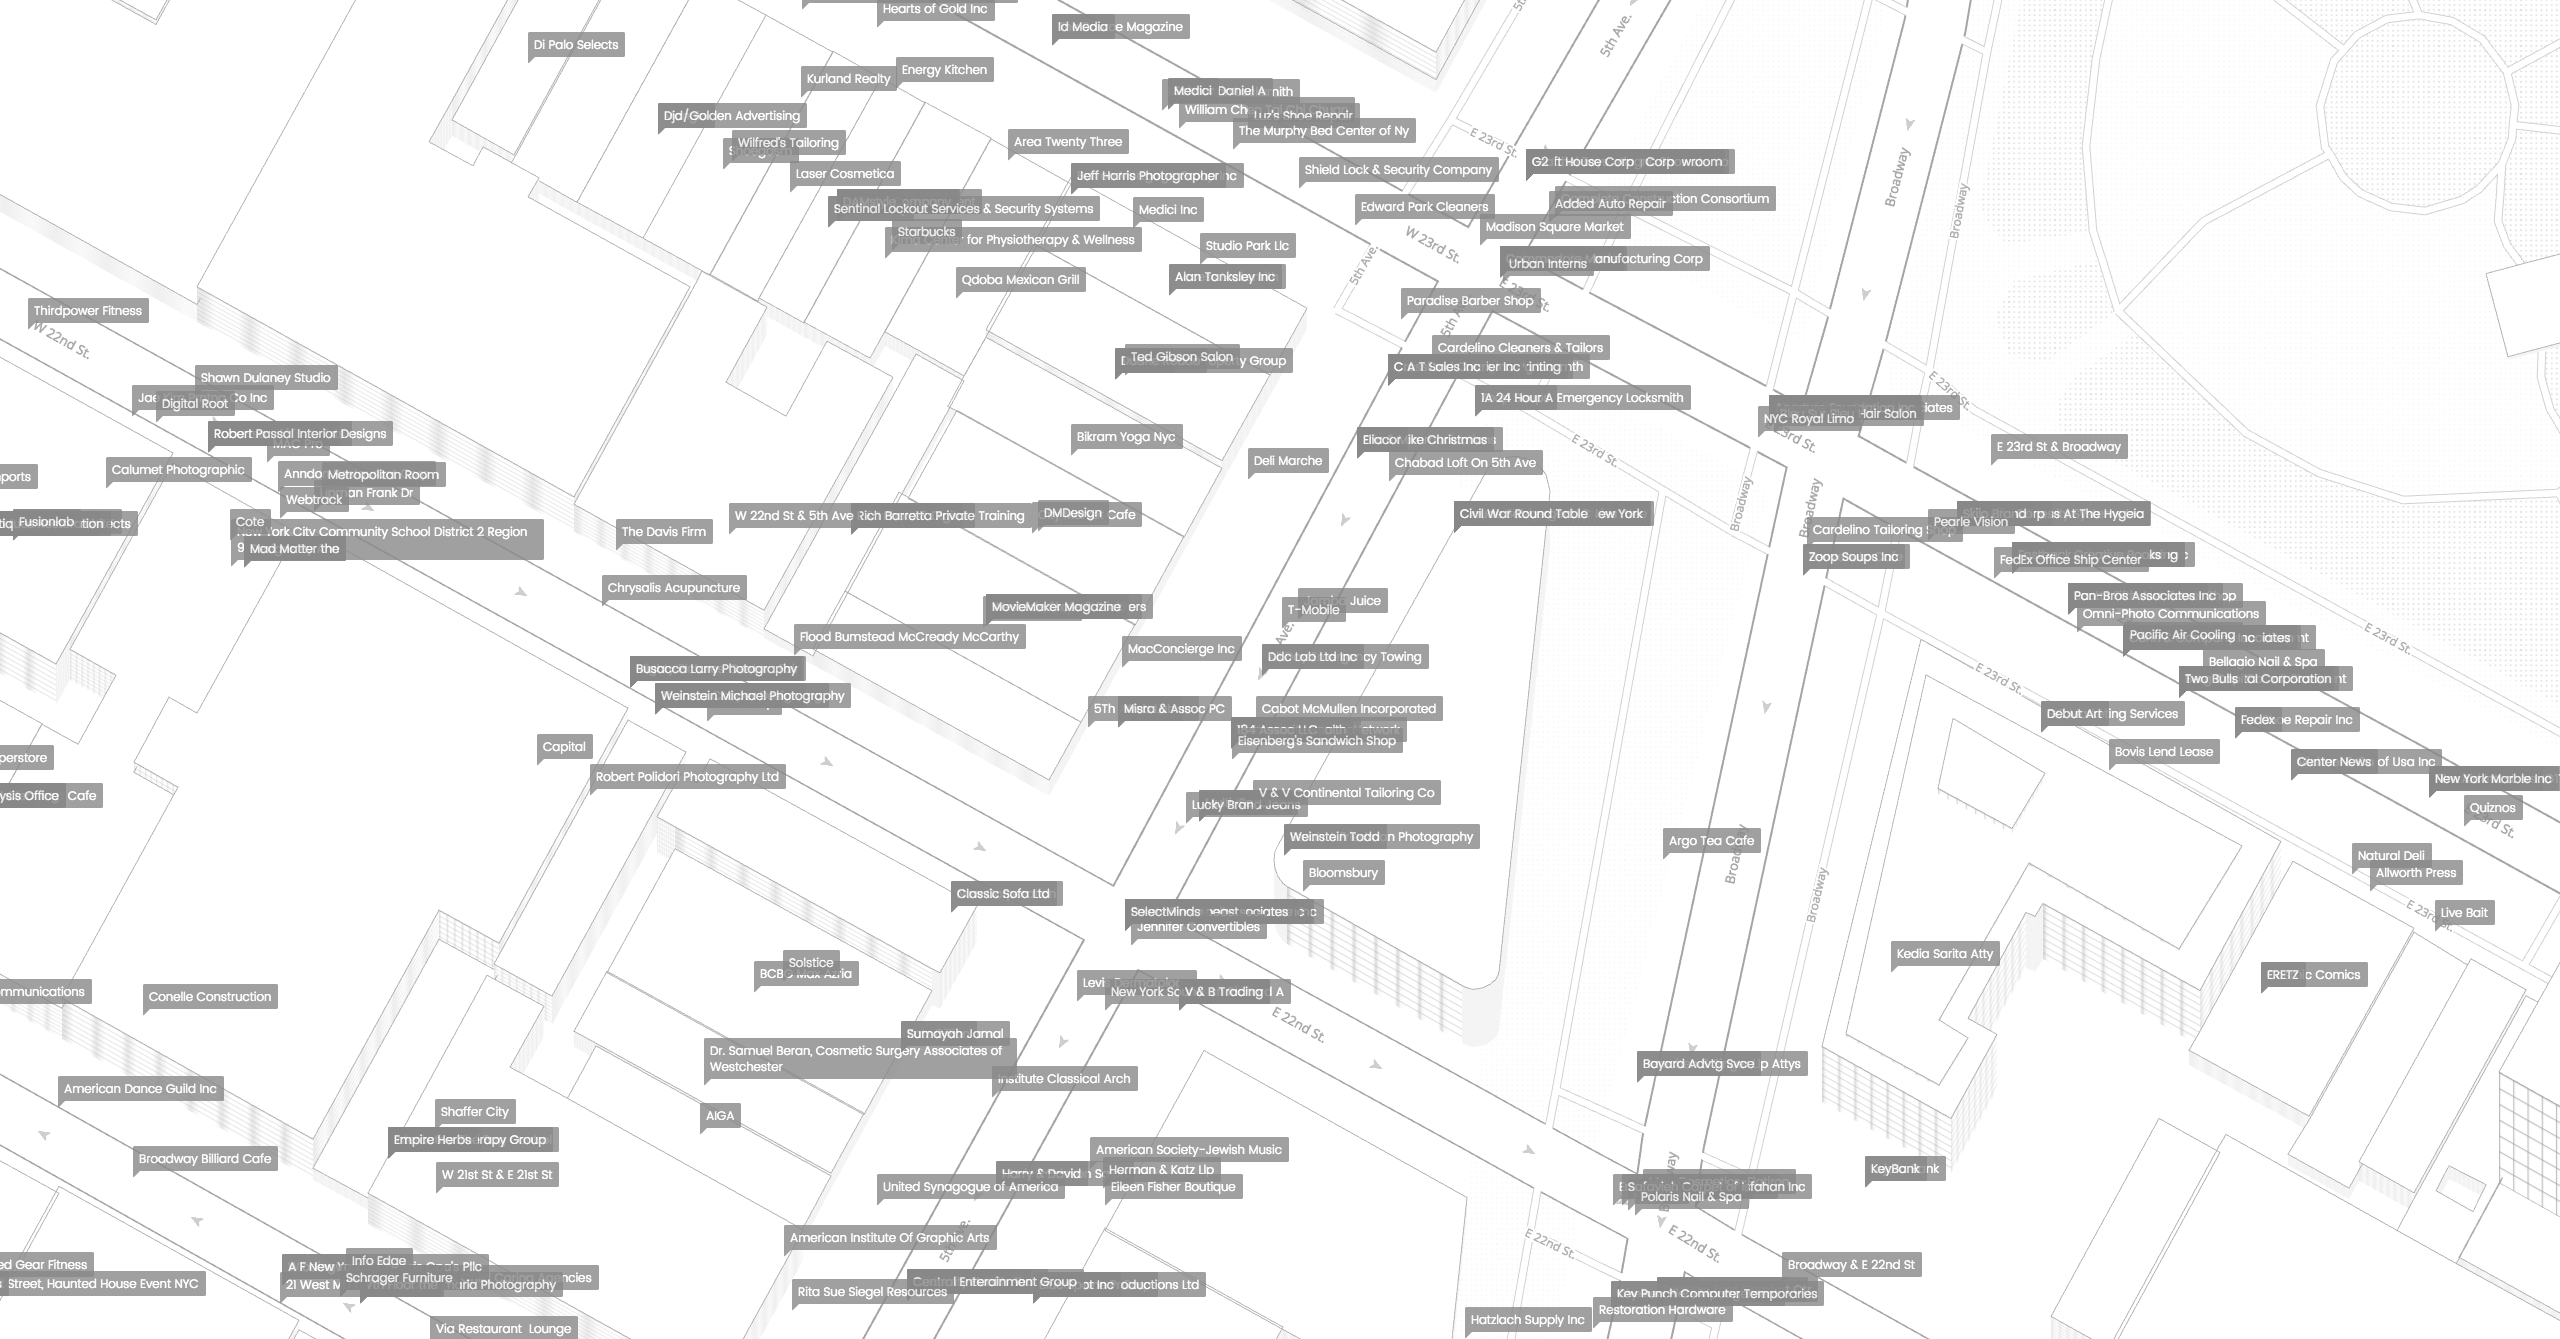
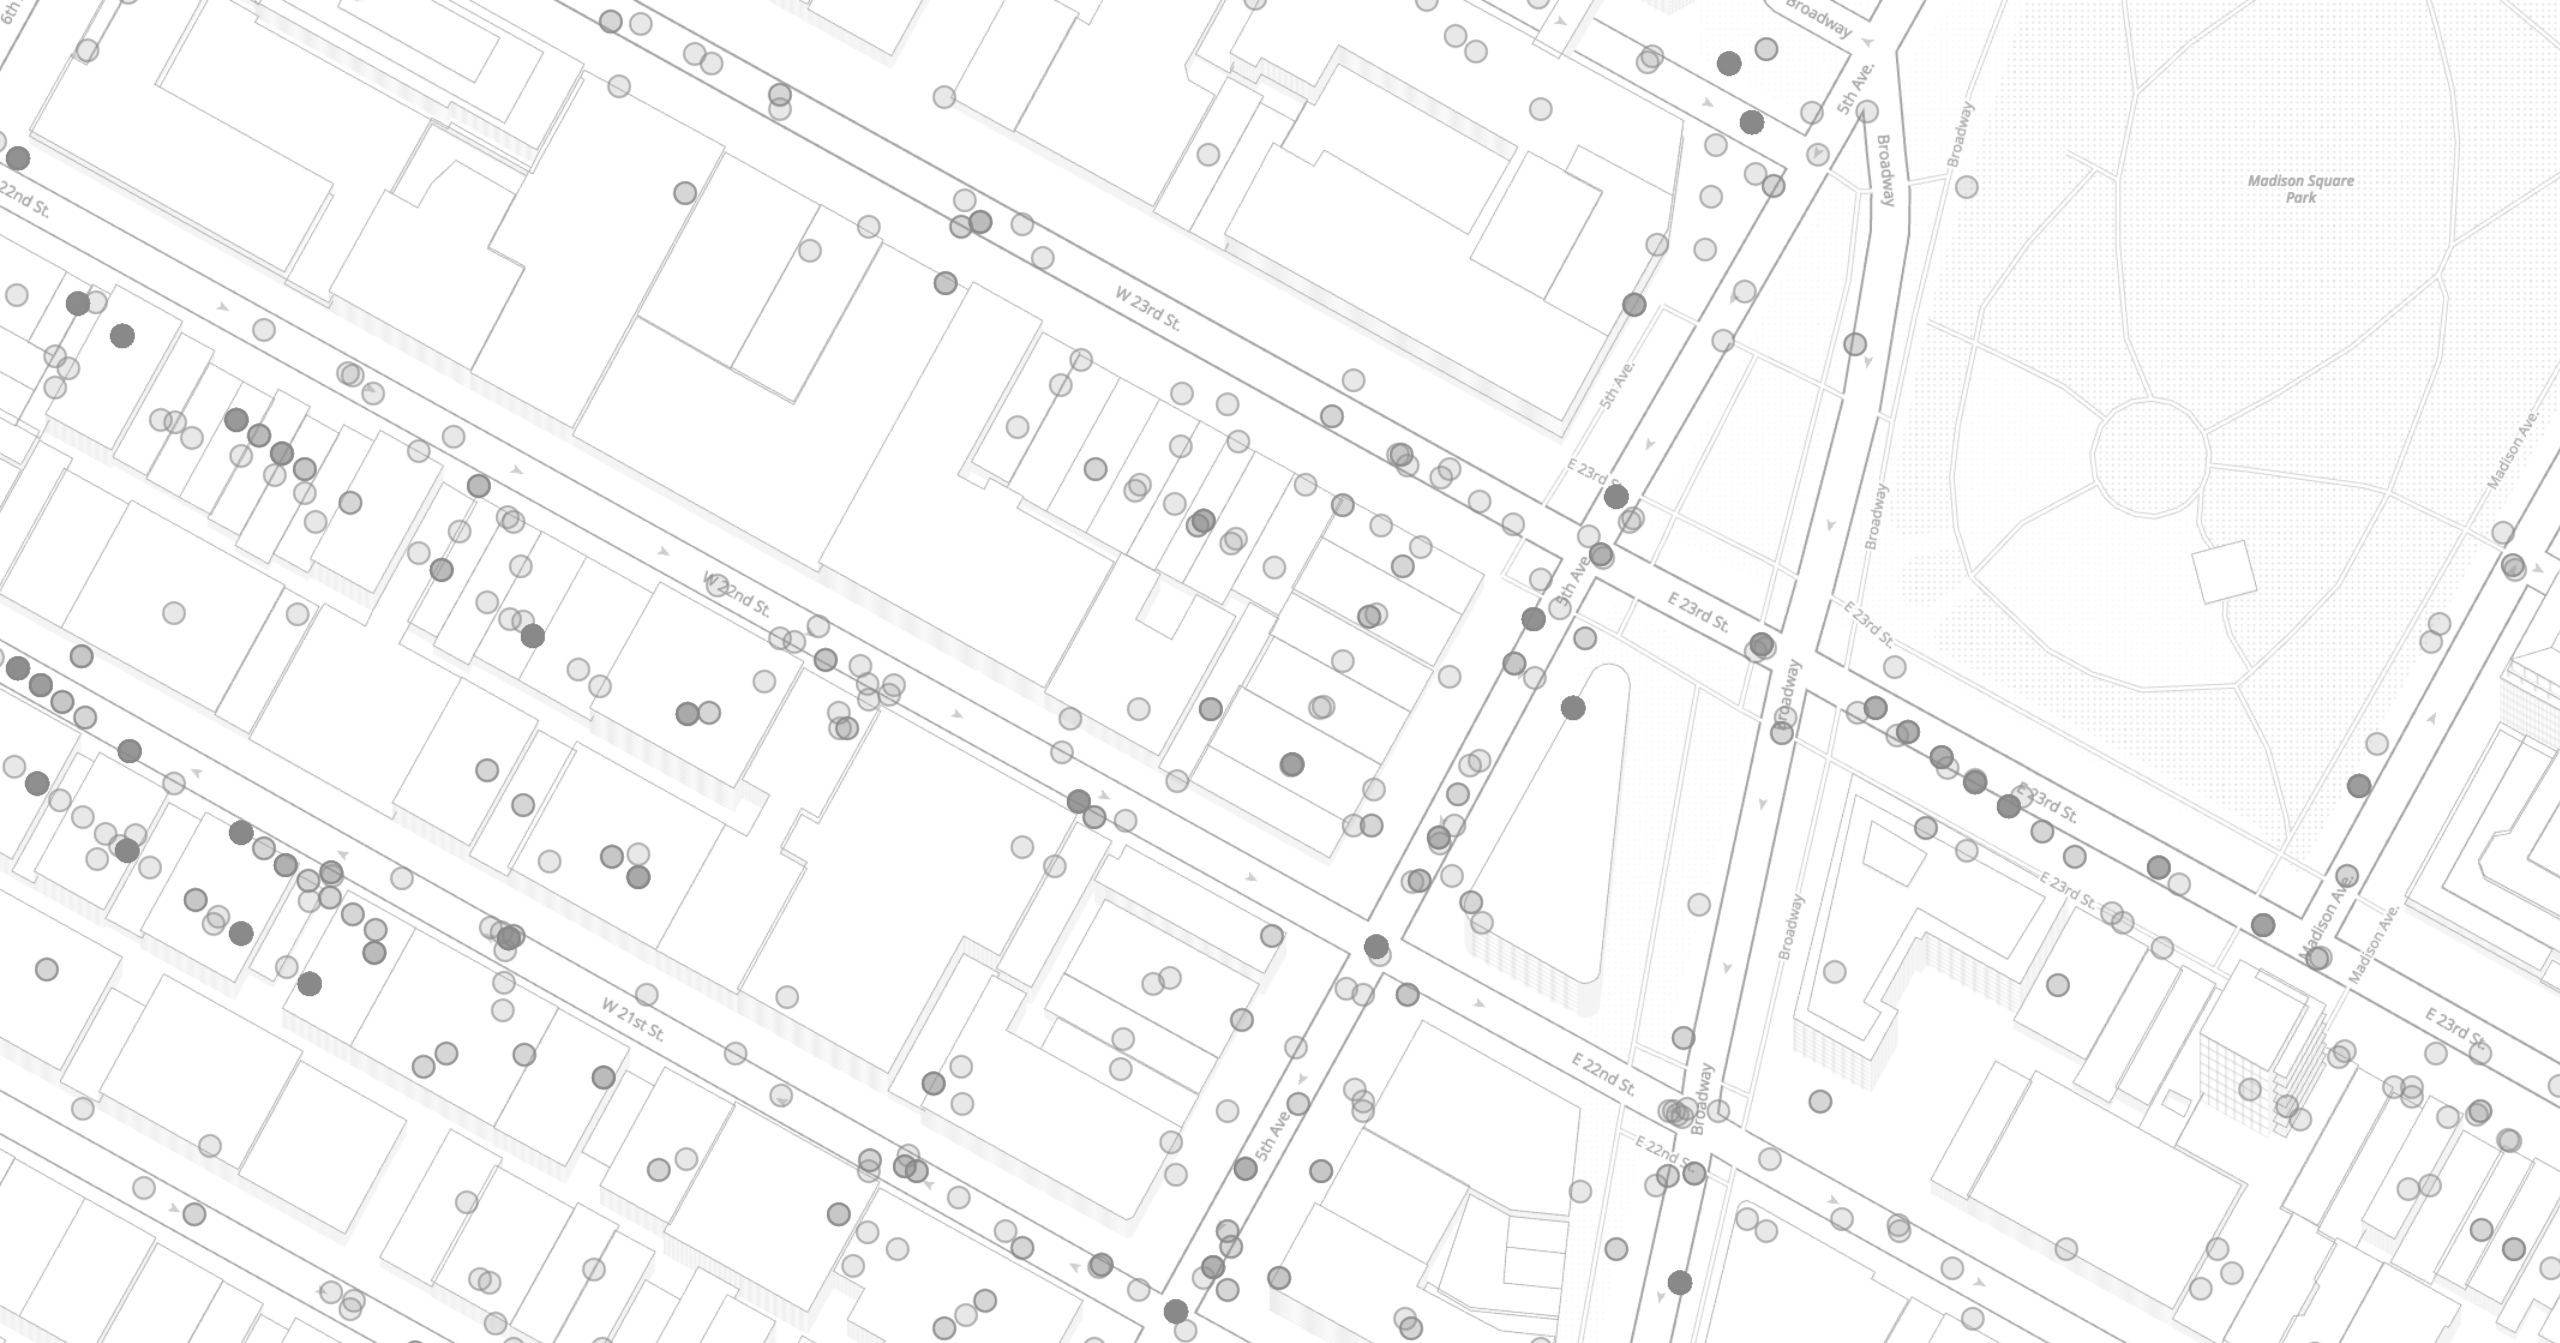
Progress on set of homebackground images

diff --git a/www/javascript/mapzen.whosonfirst.berlinfulhamvenuevisualization.js b/www/javascript/mapzen.whosonfirst.berlinfulhamvenuevisualization.js
@@ -2,16 +2,10 @@
 // To generate your key, go to https://mapzen.com/developers/
 var api_key = 'mapzen-aetZmeQ';
 // Add a map to the 'map' div
-var nyclocation = [40.74145,-73.988481,421205771,14,"New York's Flatiron District neighborhood"]
-var sflocation = [37.795492,-122.406569,85810881,17,"San Francisco's Chinatown neighborhood"]
-var berlinlocation = [52.513351,13.388243,85899637,14,"Berlin's Moabit neighborhood"]
-var mumbailocation = [19.10074,72.888075,102030609,15,"Mumbai"]
-var melbournelocation = [-37.813963,144.965188,85775095,16,"Melbourne's Museum neighborhood"]
-var locationOptions = [nyclocation,sflocation,berlinlocation,mumbailocation,melbournelocation]
-var randomLocation = locationOptions[3];
+var chosenlocation = [52.513351,13.388243,85899637,15,"Berlin's Moabit neighborhood"]
 
 var map = L.Mapzen.map('map', {
-    maxZoom: randomLocation[3],
+    maxZoom: chosenlocation[3],
     scrollWheelZoom: false,
     tangramOptions: {
         scene: {
@@ -26,24 +20,30 @@ var map = L.Mapzen.map('map', {
     }
 });
 
-var lat = randomLocation[0];
-var lon = randomLocation[1];
-map.setView([lat, lon], randomLocation[3]);
+var lat = chosenlocation[0];
+var lon = chosenlocation[1];
+map.setView([lat, lon], chosenlocation[3]);
 
 // Venues are shown as a green circle
 var markerStyle = {
-    "color": "#666",
-    "weight": 1,
-    "opacity": 1,
-    "radius": 5,
-    "fillColor": "#666",
-    "fillOpacity": 0.7
+    "weight": 2,
+    "opacity": .6,
+	"fillOpacity": .2,
+    "radius": 9,
+    "fillColor": "#888888",
+	color: "#888888"
 };
 
-var markerStyle2 = {
-	iconUrl: '../images/wof-sq-pink.jpg'
-}
+// How we should handle each API result
+var show_venue = function(place) {
+    var marker = L.circleMarker({
+        lat: place['geom:latitude'],
+        lng: place['geom:longitude']
+    }, markerStyle);
+	map.addLayer(marker);
+};
 
+/*
 // How we should handle each API result
 var show_venue = function(place) {
     var marker = L.circleMarker({
@@ -58,6 +58,7 @@ var show_venue = function(place) {
 	popup.setLatLng(popupLocation);
 	map.addLayer(popup);
 };
+*/
 
 // NOOP (we are using onprogress instead)
 var onsuccess = function() { return; };
@@ -74,7 +75,6 @@ var onprogress = function(rsp) {
         var place = rsp.places[i];
         show_venue(place);
     }
-	
 };
 
 function runWhosOnFirstAPI() {
@@ -84,7 +84,7 @@ function runWhosOnFirstAPI() {
     });
     // Get all the venues in the Flatiron District
     // See: https://mapzen.com/documentation/wof/methods/#whosonfirst.places.getDescendants
-    var parent_id = randomLocation[2];
+    var parent_id = chosenlocation[2];
     var method = 'whosonfirst.places.getDescendants';
     var data = {
         id: parent_id,
@@ -93,7 +93,4 @@ function runWhosOnFirstAPI() {
     };
     // Ok now we actually call the API
     mapzen.whosonfirst.api.execute_method_paginated(method, data, onsuccess, onerror, onprogress);
-    
-    document.getElementById("whosFirstDescendantKey").innerHTML=randomLocation[2];
-    document.getElementById("whosFirstDescendantLocation").innerHTML=randomLocation[4];
 };

diff --git a/www/css/mapzen.whosonfirst.css b/www/css/mapzen.whosonfirst.css
@@ -79,17 +79,17 @@ body {
 	width: 100%
 }
 .whosonfirst-header-image-container .whosonfirst-main-headline {
-	margin-top: 276px;
+	margin-top: 258px;
 	margin-bottom: 0%;
 	font-size: 36px;
-	width: 70%;
+	width: 72%;
     box-sizing: border-box;
 	word-break: keep-all;
-	background-color: rgba(255,255,255,.5);
+	background-color: rgba(255,255,255,1);
 	padding-top: 18px;
-	padding-bottom: 18px;
-	padding-left: 12px;
-	padding-right: 12px;
+	padding-bottom: 21px;
+	padding-left: 30px;
+	padding-right: 30px;
 	border-radius: 4px;
 	margin-left: -10px;
 }
@@ -1558,12 +1558,16 @@ a.whosonfirst-dark-gradient:hover > div > .whosonfirst-card-highlight-state-test
 	}
 	
 	.whosonfirst-header-background-image {
-		clip-path: polygon(100% 0%, 100% 92%, 85% 82%, 53% 82%, 30% 65%, 18% 43%, 0% 32%, 0% 0%);;
+		clip-path: polygon(100% 0%, 100% 95%, 85% 97%, 53% 85%, 30% 74%, 18% 64%, 0% 54%, 0% 0%);;
 	}
 
 	.whosonfirst-header-image-container .whosonfirst-main-headline {
-		margin-top: 228px;
-		width: 65%;
+		margin-top: 180px;
+		width: 68%;
+	}
+	
+	.whosonfirst-card-container {
+		padding-top: 396px;
 	}
 }
 
@@ -2045,19 +2049,21 @@ a.whosonfirst-dark-gradient:hover > div > .whosonfirst-card-highlight-state-test
 	}
 	
 	.whosonfirst-header-background-image {
-		clip-path: polygon(100% 0%, 100% 92%, 85% 82%, 53% 82%, 33% 70%, 15% 42%, 0% 33%, 0% 0%);;
+		clip-path: polygon(100% 0%, 100% 96%, 85% 93%, 53% 91%, 33% 85%, 15% 72%, 0% 48%, 0% 0%);;
 	}
 
 	.whosonfirst-header-image-container .whosonfirst-main-headline {
-		margin-top: 168px;
+		margin-top: 156px;
 		font-size: 27px;
-		width: 63%;
+		width: 66%;
 		padding-top: 12px;
-		padding-bottom: 12px;
+		padding-bottom: 14px;
+		padding-right: 20px;
+		padding-left: 20px;
 	}
 
 	.whosonfirst-card-container {
-		padding-top: 300px;
+		padding-top: 288px;
 		padding-bottom: 96px;
 	}
 }

diff --git a/www/javascript/mapzen.whosonfirst.nycflatironvenuevisualization.js b/www/javascript/mapzen.whosonfirst.nycflatironvenuevisualization.js
@@ -2,7 +2,7 @@
 // To generate your key, go to https://mapzen.com/developers/
 var api_key = 'mapzen-aetZmeQ';
 // Add a map to the 'map' div
-var chosenlocation = [40.741331,-73.989332,85869245,20,"New York's Flatiron District neighborhood"]
+var chosenlocation = [40.741331,-73.989332,85869245,19,"New York's Flatiron District neighborhood"]
 
 var map = L.Mapzen.map('map', {
     maxZoom: chosenlocation[3],
@@ -26,14 +26,24 @@ map.setView([lat, lon], chosenlocation[3]);
 
 // Venues are shown as a green circle
 var markerStyle = {
-    "color": "#666",
-    "weight": 1,
-    "opacity": 1,
-    "radius": 5,
-    "fillColor": "#666",
-    "fillOpacity": 0.7
+    "weight": 2,
+    "opacity": .6,
+	"fillOpacity": .2,
+    "radius": 9,
+    "fillColor": "#888888",
+	color: "#888888"
 };
 
+// How we should handle each API result
+var show_venue = function(place) {
+    var marker = L.circleMarker({
+        lat: place['geom:latitude'],
+        lng: place['geom:longitude']
+    }, markerStyle);
+	map.addLayer(marker);
+};
+
+/*
 // How we should handle each API result
 var show_venue = function(place) {
     var marker = L.circleMarker({
@@ -48,6 +58,7 @@ var show_venue = function(place) {
 	popup.setLatLng(popupLocation);
 	map.addLayer(popup);
 };
+*/
 
 // NOOP (we are using onprogress instead)
 var onsuccess = function() { return; };

diff --git a/www/index.html b/www/index.html
@@ -17,7 +17,7 @@
     </head>
 	<body>
 		<div class="whosonfirst-header-image-container">
-			<img class="whosonfirst-header-background-image" src="images/seoulneighborhoodvisualization.png" />
+			<img id="chosen-background-image" class="whosonfirst-header-background-image" src="images/seoulneighborhoodvisualization.png" />
 			<div class="container">
 				<h6 class="whosonfirst-main-headline"><span class="whosonfirst-deemphasized-header">A</span> gazetteer or big list of places<span class="whosonfirst-deemphasized-header">, each with a stable identifier and some number of descriptive properties about that location.</span></h6>
 			</div>
@@ -213,5 +213,16 @@
 		<script src="javascript/jquery.min.js"></script>
 		<!-- Include all compiled plugins (below), or include individual files as needed -->
 		<script src="javascript/bootstrap.min.js"></script>
+		<script>
+			window.onload = choosePic;
+
+			var myPix = new Array("images/berlinvenuevisualization.png","images/nycvenuevisualization.png","images/seoulneighborhoodvisualization.png","images/sfneighborhoodvisualization.png");
+
+			function choosePic() {
+				console.log("In Here");
+				var randomNum = Math.floor(Math.random() * myPix.length);
+				document.getElementById("chosen-background-image").src = myPix[randomNum];
+			}
+		</script>
 	</body>
 </html>

diff --git a/www/reference/interactivemap.html b/www/reference/interactivemap.html
@@ -12,7 +12,7 @@
         <link rel='manifest' href='https://mapzen.com/common/styleguide/images/favicons/manifest.json'>
         <link rel='mask-icon' href='https://mapzen.com/common/styleguide/images/favicons/safari-pinned-tab.svg' color='#2C1E3F'>
         
-        <link rel="stylesheet" href="https://mapzen.com/js/mapzen.css">
+        <link rel="stylesheet" href="../css/mapzen.css">
         <link rel="stylesheet" href="../css/mapzen-whosonfirstindexrevised3.css">
 		<link rel="stylesheet" href="../css/bootstrap.min.css">
     </head>
@@ -382,7 +382,7 @@
             </div>
         </section>
         
-		<script src="https://mapzen.com/js/mapzen.min.js"></script>
+		<script src="../javascript/mapzen.min.js"></script>
         <script src="../javascript/mapzen-whosonfirstdemofour.js"></script>
     </body>
 </html>

diff --git a/www/reference/berlinvenuevisualization.html b/www/reference/berlinvenuevisualization.html
@@ -29,7 +29,6 @@
 		<script src="../javascript/mapzen.min.js"></script>
         <script src="../javascript/mapzen.whosonfirst.api.js"></script>
 		<script src='../javascript/jquery.min.js'></script>
-        <script src='../javascript/mapzen-projects.js'></script>
-		<script src="../javascript/mapzen.whosonfirst.londonfulhamvenuevisualization.js"></script>
+		<script src="../javascript/mapzen.whosonfirst.berlinfulhamvenuevisualization.js"></script>
     </body>
 </html>

diff --git a/www/reference/mapvisualization.html b/www/reference/mapvisualization.html
@@ -29,7 +29,6 @@
 		<script src="../javascript/mapzen.min.js"></script>
         <script src="../javascript/mapzen.whosonfirst.api.js"></script>
 		<script src='../javascript/jquery.min.js'></script>
-        <script src='../javascript/mapzen-projects.js'></script>
-		<script src="../javascript/mapzen.whosonfirst.copenhagenvenuevisualization.js"></script>
+		<script src="../javascript/mapzen.whosonfirst.berlinfulhamvenuevisualization.js"></script>
     </body>
 </html>

diff --git a/www/reference/homehalfgrid.html b/www/reference/homehalfgrid.html
@@ -208,10 +208,8 @@
 				</div>
 			</nav>
 		</footer>
-		
-		<!-- jQuery (necessary for Bootstrap's JavaScript plugins) -->
-		<script src="https://ajax.googleapis.com/ajax/libs/jquery/1.12.4/jquery.min.js"></script>
-		<!-- Include all compiled plugins (below), or include individual files as needed -->
+
+		<script src='../javascript/jquery.min.js'></script>
 		<script src="../javascript/bootstrap.min.js"></script>
 	</body>
 </html>

diff --git a/www/reference/homebackgroundimage.html b/www/reference/homebackgroundimage.html
@@ -201,9 +201,7 @@
 			</nav>
 		</footer>
 		
-		<!-- jQuery (necessary for Bootstrap's JavaScript plugins) -->
-		<script src="https://ajax.googleapis.com/ajax/libs/jquery/1.12.4/jquery.min.js"></script>
-		<!-- Include all compiled plugins (below), or include individual files as needed -->
+		<script src="../javascript/jquery.min.js"></script>
 		<script src="../javascript/bootstrap.min.js"></script>
 	</body>
 </html>

diff --git a/www/reference/seoulneighbourhoodvisualization.html b/www/reference/seoulneighbourhoodvisualization.html
@@ -29,7 +29,6 @@
 		<script src="../javascript/mapzen.min.js"></script>
         <script src="../javascript/mapzen.whosonfirst.api.js"></script>
         <script src='../javascript/jquery.min.js'></script>
-        <script src='../javascript/mapzen-projects.js'></script>
 		<script src="../javascript/mapzen.whosonfirst.seoulneighbourhoodvisualization.js"></script>
     </body>
 </html>

diff --git a/www/reference/sfneighbourhoodvisualization.html b/www/reference/sfneighbourhoodvisualization.html
@@ -29,7 +29,6 @@
 		<script src="../javascript/mapzen.min.js"></script>
         <script src="../javascript/mapzen.whosonfirst.api.js"></script>
         <script src='../javascript/jquery.min.js'></script>
-        <script src='../javascript/mapzen-projects.js'></script>
 		<script src="../javascript/mapzen.whosonfirst.sfneighbourhoodsvisualization.js"></script>
     </body>
 </html>

diff --git a/www/reference/nycvenuevisualization.html b/www/reference/nycvenuevisualization.html
@@ -29,7 +29,6 @@
 		<script src="../javascript/mapzen.min.js"></script>
         <script src="../javascript/mapzen.whosonfirst.api.js"></script>
 		<script src='../javascript/jquery.min.js'></script>
-        <script src='../javascript/mapzen-projects.js'></script>
 		<script src="../javascript/mapzen.whosonfirst.nycflatironvenuevisualization.js"></script>
     </body>
 </html>
